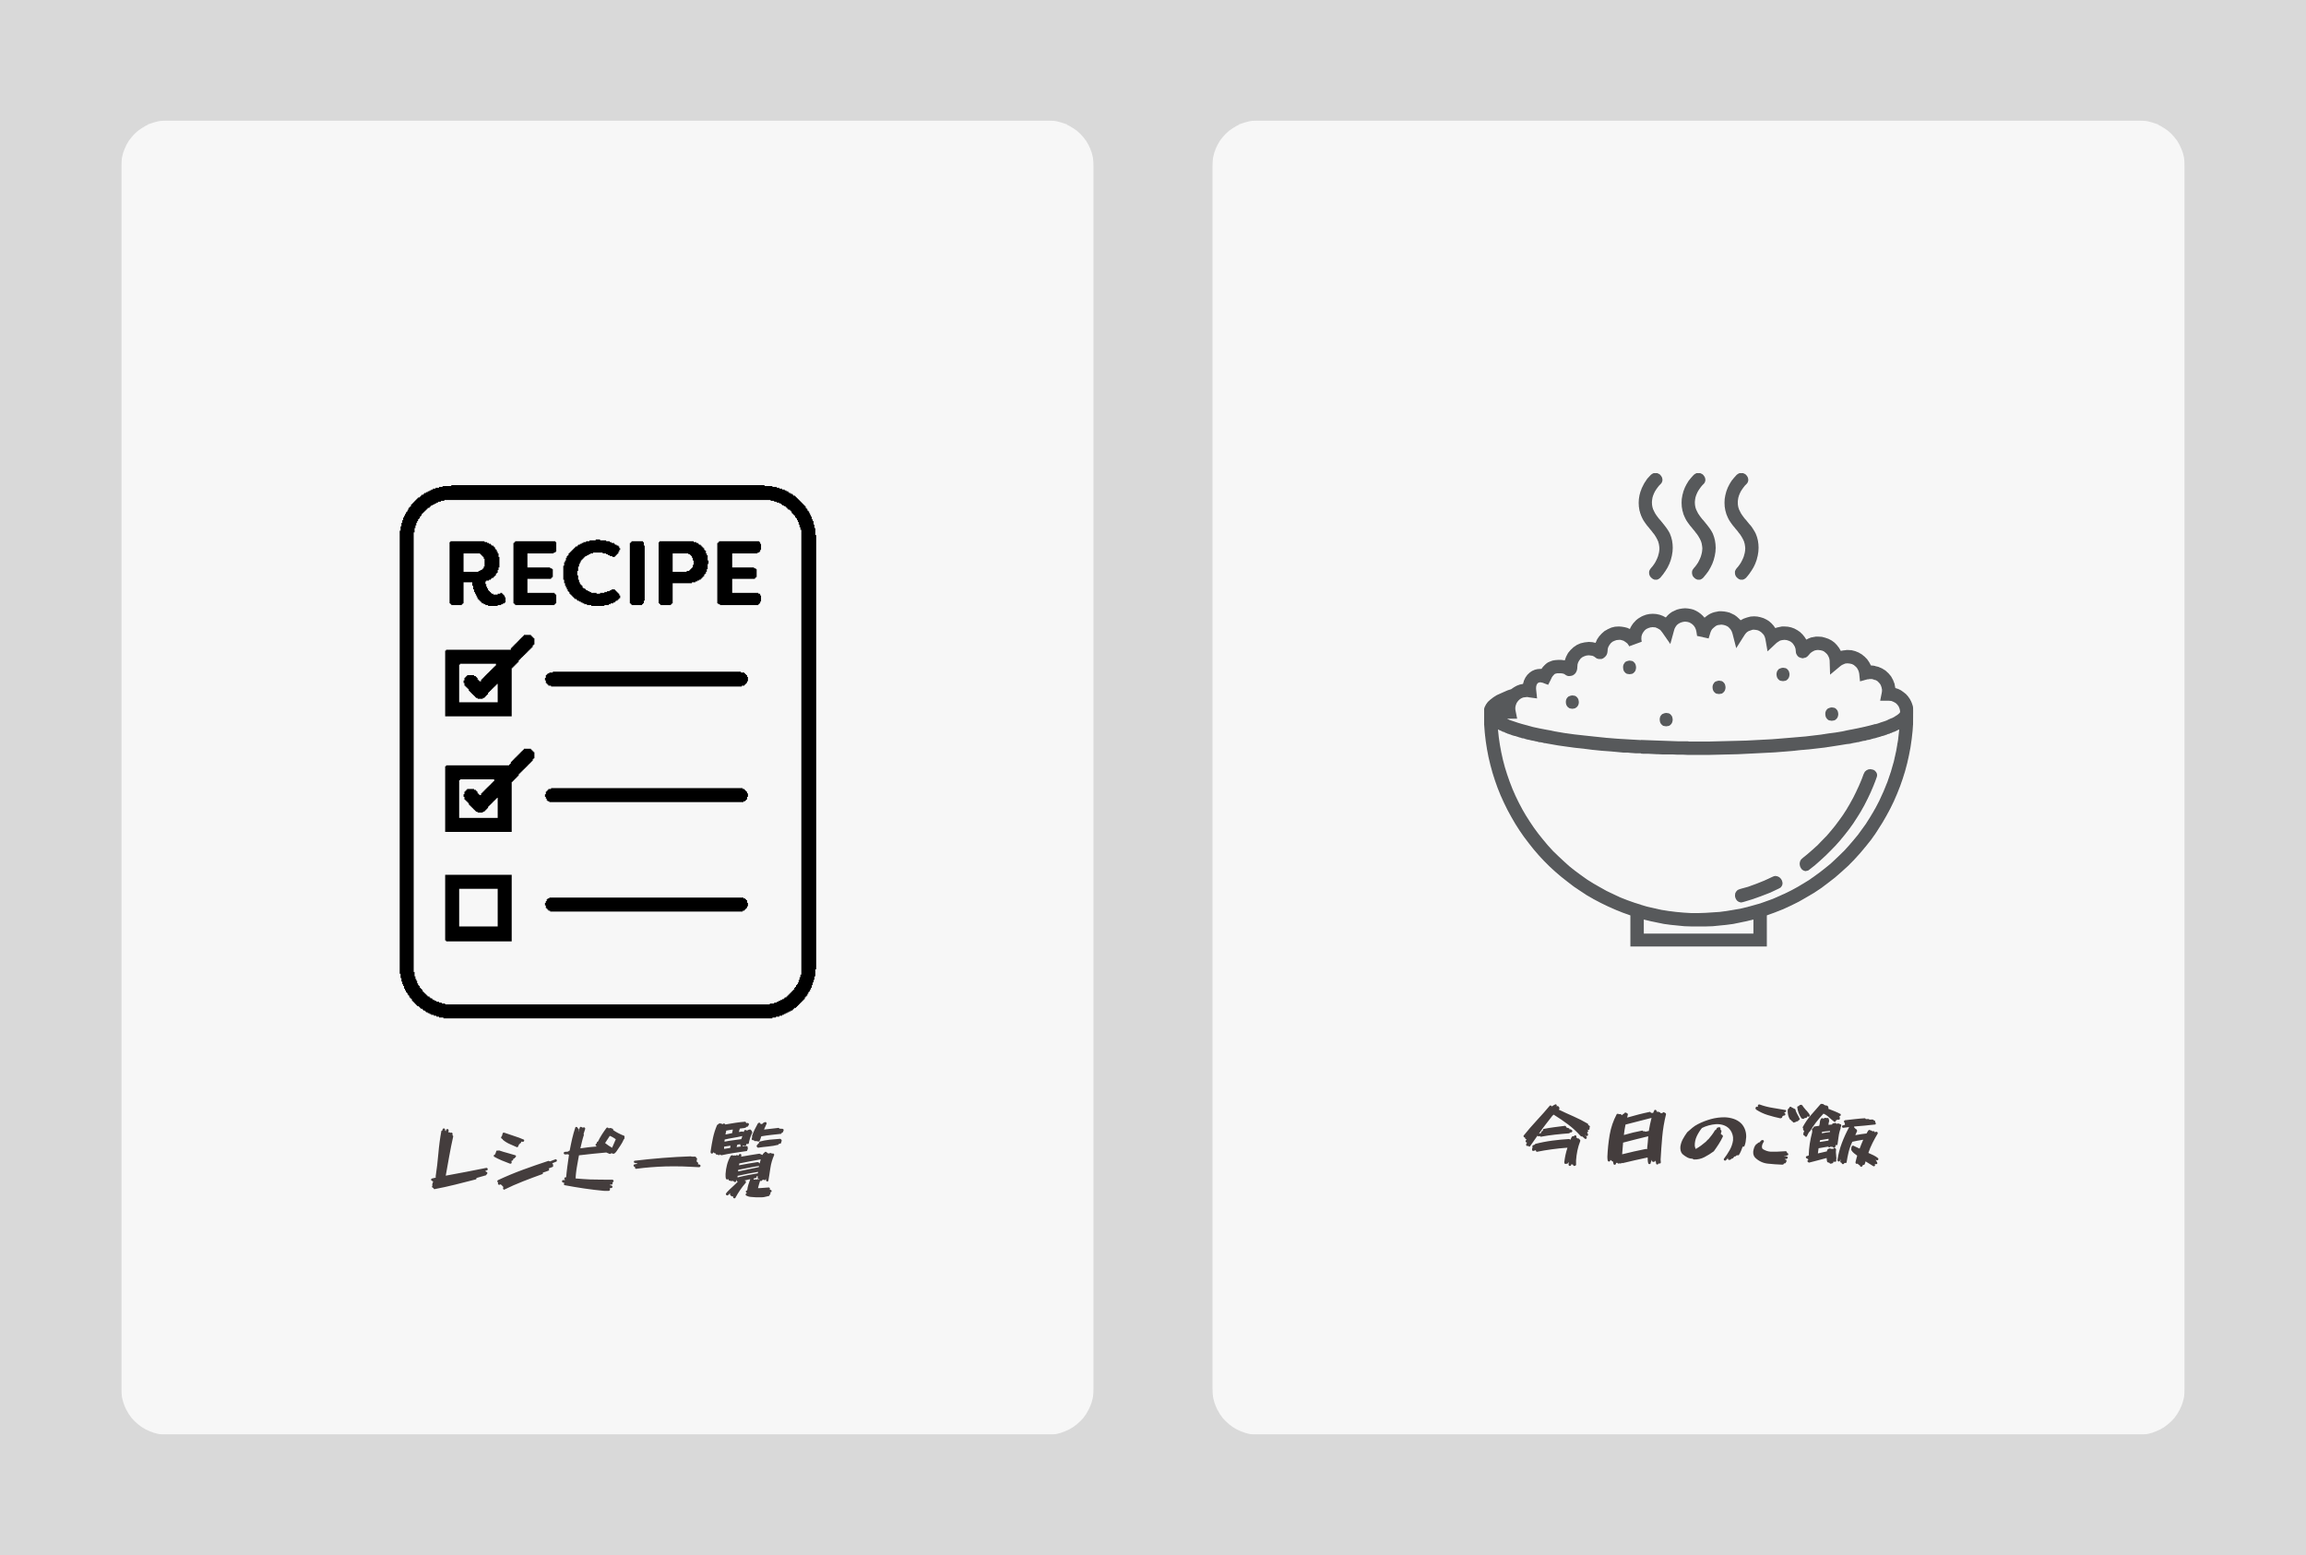
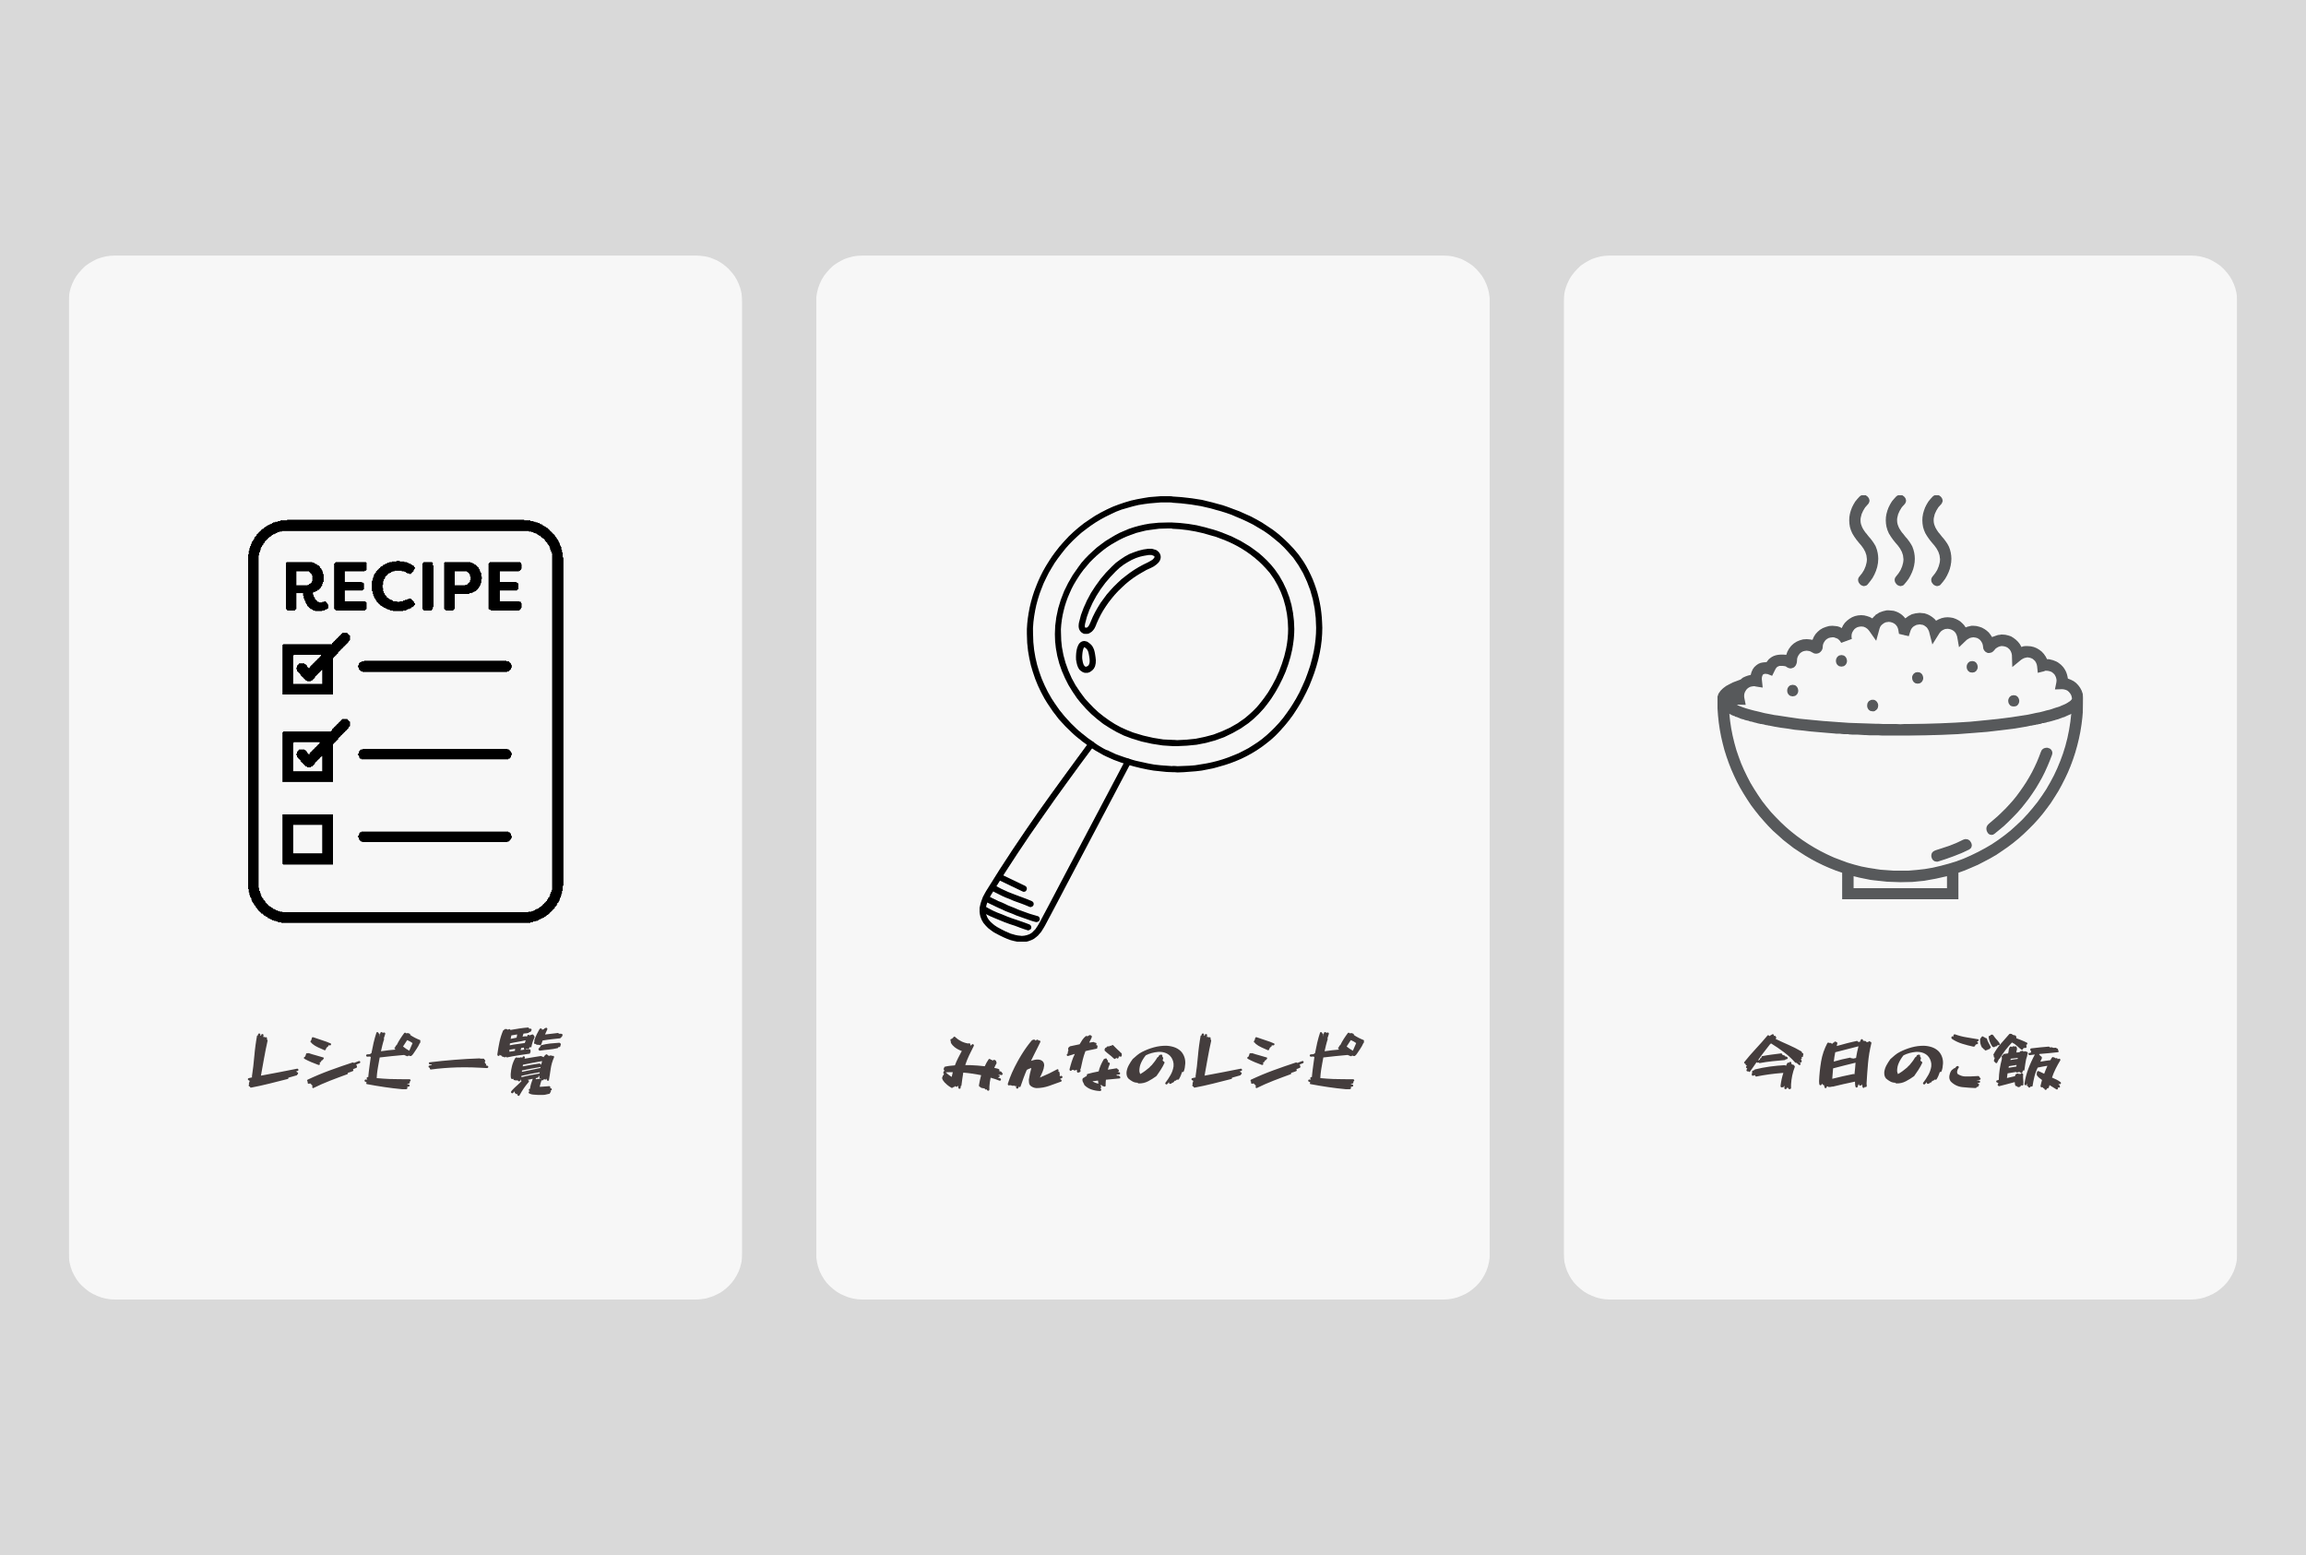
リッチメニューを変更する

diff --git a/backend/handler/line.go b/backend/handler/line.go
@@ -75,14 +75,21 @@ func (h *LineHandler) LineEvent(c echo.Context) error {
 				ChatBarText: "Tap here",
 				Areas: []linebot.AreaDetail{
 					{
-						Bounds: linebot.RichMenuBounds{X: 132, Y: 130, Width: 1054, Height: 1425},
+						Bounds: linebot.RichMenuBounds{X: 74, Y: 278, Width: 730, Height: 1130},
 						Action: linebot.RichMenuAction{
 							Type: "uri",
 							URI:  "https://liff.line.me/1660690567-wegZZboy/menu-list",
 						},
 					},
 					{
-						Bounds: linebot.RichMenuBounds{X: 1315, Y: 130, Width: 1054, Height: 1425},
+						Bounds: linebot.RichMenuBounds{X: 885, Y: 278, Width: 730, Height: 1130},
+						Action: linebot.RichMenuAction{
+							Type: "uri",
+							URI:  "https://liff.line.me/1660690567-wegZZboy/like-list",
+						},
+					},
+					{
+						Bounds: linebot.RichMenuBounds{X: 1695, Y: 278, Width: 730, Height: 1130},
 						Action: linebot.RichMenuAction{
 							Type: "message",
 							Text: "今日のメニュー何がいいかな？",
